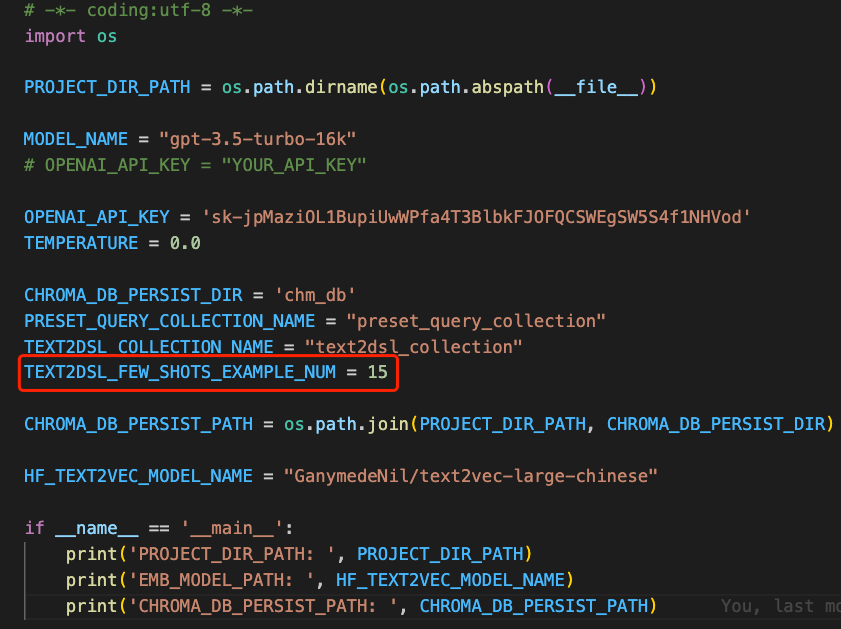
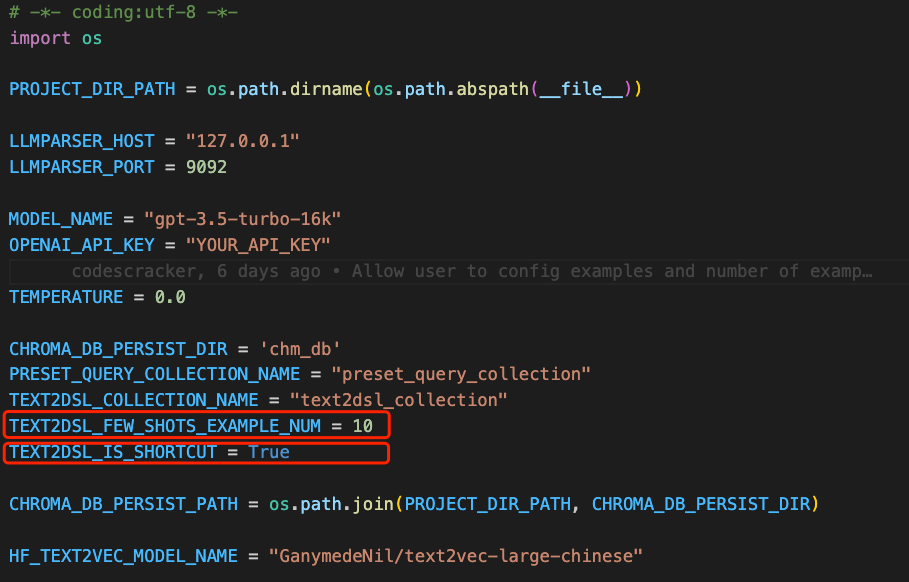
(improvement)(text2sql) add text2sql feature that only call LLM once, and add correponding configs and docs. (#102)

diff --git a/chat/core/src/main/python/sql/run.py b/chat/core/src/main/python/sql/run.py
@@ -7,32 +7,37 @@ import sys
 sys.path.append(os.path.dirname(os.path.dirname(os.path.abspath(__file__))))
 sys.path.append(os.path.dirname(os.path.abspath(__file__)))
 
-from sql.prompt_maker import schema_linking_exampler, sql_exampler
-from sql.constructor import schema_linking_example_selector, sql_example_selector,sql_examples_vectorstore, reload_sql_example_collection
-from sql.output_parser import schema_link_parse
+from sql.prompt_maker import schema_linking_exampler, sql_exampler, schema_linking_sql_combo_examplar
+from sql.constructor import sql_examples_vectorstore, sql_example_selector, reload_sql_example_collection
+from sql.output_parser import schema_link_parse, combo_schema_link_parse, combo_sql_parse
 
 from util.llm_instance import llm
-
+from run_config import TEXT2DSL_IS_SHORTCUT
 
 class Text2DSLAgent(object):
         def __init__(self):
             self.schema_linking_exampler = schema_linking_exampler
             self.sql_exampler = sql_exampler
 
+            self.schema_linking_sql_combo_exampler = schema_linking_sql_combo_examplar
+
             self.sql_examples_vectorstore = sql_examples_vectorstore
-            self.schema_linking_example_selector = schema_linking_example_selector
             self.sql_example_selector = sql_example_selector
 
             self.schema_link_parse = schema_link_parse
+            self.combo_schema_link_parse = combo_schema_link_parse
+            self.combo_sql_parse = combo_sql_parse
 
             self.llm = llm
 
-        def update_examples(self, sql_examplars, example_nums):
-            self.sql_examples_vectorstore, self.schema_linking_example_selector, self.sql_example_selector = reload_sql_example_collection(self.sql_examples_vectorstore, 
-                                                                                                                                           sql_examplars, 
-                                                                                                                                           self.schema_linking_example_selector, 
-                                                                                                                                           self.sql_example_selector, 
-                                                                                                                                           example_nums)
+            self.is_shortcut = TEXT2DSL_IS_SHORTCUT
+
+        def update_examples(self, sql_examples, example_nums, is_shortcut):
+            self.sql_examples_vectorstore,  self.sql_example_selector = reload_sql_example_collection(self.sql_examples_vectorstore, 
+                                                                                                    sql_examples, 
+                                                                                                    self.sql_example_selector, 
+                                                                                                    example_nums)
+            self.is_shortcut = is_shortcut
 
         def query2sql(self, query_text: str, 
             schema : Union[dict, None] = None,
@@ -53,14 +58,14 @@ class Text2DSLAgent(object):
             model_name = schema['modelName']
             fields_list = schema['fieldNameList']
 
-            schema_linking_prompt = self.schema_linking_exampler(query_text, model_name, fields_list, prior_schema_links, self.schema_linking_example_selector)
+            schema_linking_prompt = self.schema_linking_exampler(query_text, model_name, fields_list, prior_schema_links, self.sql_example_selector)
             print("schema_linking_prompt->", schema_linking_prompt)
             schema_link_output = self.llm(schema_linking_prompt)
             schema_link_str = self.schema_link_parse(schema_link_output)
             
             sql_prompt = self.sql_exampler(query_text, model_name, schema_link_str, current_date, self.sql_example_selector)
             print("sql_prompt->", sql_prompt)
-            sql_output = llm(sql_prompt)
+            sql_output = self.llm(sql_prompt)
 
             resp = dict()
             resp['query'] = query_text
@@ -69,7 +74,7 @@ class Text2DSLAgent(object):
             resp['priorSchemaLinking'] = linking
             resp['dataDate'] = current_date
 
-            resp['schemaLinkingOutput'] = schema_link_output
+            resp['analysisOutput'] = schema_link_output
             resp['schemaLinkStr'] = schema_link_str
             
             resp['sqlOutput'] = sql_output
@@ -77,6 +82,58 @@ class Text2DSLAgent(object):
             print("resp: ", resp)
 
             return resp
+
+        def query2sqlcombo(self, query_text: str, 
+            schema : Union[dict, None] = None,
+            current_date: str = None,
+            linking: Union[List[Mapping[str, str]], None] = None
+            ):
+
+            print("query_text: ", query_text)
+            print("schema: ", schema)
+            print("current_date: ", current_date)
+            print("prior_schema_links: ", linking)
+
+            if linking is not None:
+                  prior_schema_links = {item['fieldValue']:item['fieldName'] for item in linking}
+            else:
+                  prior_schema_links = {}
+
+            model_name = schema['modelName']
+            fields_list = schema['fieldNameList']
+
+            schema_linking_sql_combo_prompt = self.schema_linking_sql_combo_exampler(query_text, model_name, current_date, fields_list,
+                                                                                    prior_schema_links, self.sql_example_selector)
+            print("schema_linking_sql_combo_prompt->", schema_linking_sql_combo_prompt)
+            schema_linking_sql_combo_output = self.llm(schema_linking_sql_combo_prompt)
+
+            schema_linking_str = self.combo_schema_link_parse(schema_linking_sql_combo_output)
+            sql_str = self.combo_sql_parse(schema_linking_sql_combo_output)
+
+            resp = dict()
+            resp['query'] = query_text
+            resp['model'] = model_name
+            resp['fields'] = fields_list
+            resp['priorSchemaLinking'] = prior_schema_links
+            resp['dataDate'] = current_date
+
+            resp['analysisOutput'] = schema_linking_sql_combo_output
+            resp['schemaLinkStr'] = schema_linking_str
+            resp['sqlOutput'] = sql_str
+
+            print("resp: ", resp)
+
+            return resp
+
+        def query2sql_run(self, query_text: str, 
+            schema : Union[dict, None] = None,
+            current_date: str = None,
+            linking: Union[List[Mapping[str, str]], None] = None):
+
+            if self.is_shortcut:
+                  return self.query2sqlcombo(query_text, schema, current_date, linking)
+            else:
+                  return self.query2sql(query_text, schema, current_date, linking)
 
 text2sql_agent = Text2DSLAgent()
 

diff --git a/chat/core/src/main/python/sql/constructor.py b/chat/core/src/main/python/sql/constructor.py
@@ -22,10 +22,8 @@ from util.text2vec import Text2VecEmbeddingFunction, hg_embedding
 from util.chromadb_instance import client as chromadb_client, empty_chroma_collection_2
 from run_config import TEXT2DSL_COLLECTION_NAME, TEXT2DSL_FEW_SHOTS_EXAMPLE_NUM
 
-
 def reload_sql_example_collection(vectorstore:Chroma, 
                                 sql_examplars:List[Mapping[str, str]],
-                                schema_linking_example_selector:SemanticSimilarityExampleSelector,
                                 sql_example_selector:SemanticSimilarityExampleSelector, 
                                 example_nums:int
                                 ):
@@ -35,20 +33,16 @@ def reload_sql_example_collection(vectorstore:Chroma,
 
     print("emptied sql_examples_collection size:", vectorstore._collection.count())
 
-    schema_linking_example_selector = SemanticSimilarityExampleSelector(vectorstore=sql_examples_vectorstore, k=example_nums,
-                                                        input_keys=["question"], 
-                                                        example_keys=["table_name", "fields_list", "prior_schema_links", "question", "analysis", "schema_links"])
-
     sql_example_selector = SemanticSimilarityExampleSelector(vectorstore=sql_examples_vectorstore, k=example_nums,
-                                                        input_keys=["question"],
-                                                        example_keys=["question", "current_date", "table_name", "schema_links", "sql"])
+                                                        input_keys=["question"], 
+                                                        example_keys=["table_name", "fields_list", "prior_schema_links", "question", "analysis", "schema_links", "current_date", "sql"])
 
     for example in sql_examplars:
-        schema_linking_example_selector.add_example(example)
+        sql_example_selector.add_example(example)
 
     print("reloaded sql_examples_collection size:", vectorstore._collection.count())
 
-    return vectorstore, schema_linking_example_selector, sql_example_selector
+    return vectorstore, sql_example_selector
 
 
 sql_examples_vectorstore = Chroma(collection_name=TEXT2DSL_COLLECTION_NAME, 
@@ -57,22 +51,14 @@ sql_examples_vectorstore = Chroma(collection_name=TEXT2DSL_COLLECTION_NAME,
 
 example_nums = TEXT2DSL_FEW_SHOTS_EXAMPLE_NUM
 
-schema_linking_example_selector = SemanticSimilarityExampleSelector(vectorstore=sql_examples_vectorstore, k=example_nums,
-                                                        input_keys=["question"], 
-                                                        example_keys=["table_name", "fields_list", "prior_schema_links", "question", "analysis", "schema_links"])
-
 sql_example_selector = SemanticSimilarityExampleSelector(vectorstore=sql_examples_vectorstore, k=example_nums,
-                                                        input_keys=["question"],
-                                                        example_keys=["question", "current_date", "table_name", "schema_links", "sql"])
+                                                        input_keys=["question"], 
+                                                        example_keys=["table_name", "fields_list", "prior_schema_links", "question", "analysis", "schema_links", "current_date", "sql"])
 
 if sql_examples_vectorstore._collection.count() > 0:
     print("examples already in sql_vectorstore")
     print("init sql_vectorstore size:", sql_examples_vectorstore._collection.count()) 
-    if sql_examples_vectorstore._collection.count() < len(sql_examplars):
-        print("sql_examplars size:", len(sql_examplars))
-        sql_examples_vectorstore, schema_linking_example_selector, sql_example_selector = reload_sql_example_collection(sql_examples_vectorstore, sql_examplars, schema_linking_example_selector, sql_example_selector, example_nums)
-        print("added sql_vectorstore size:", sql_examples_vectorstore._collection.count())
-else:
-    sql_examples_vectorstore, schema_linking_example_selector, sql_example_selector = reload_sql_example_collection(sql_examples_vectorstore, sql_examplars, schema_linking_example_selector, sql_example_selector, example_nums)
-    print("added sql_vectorstore size:", sql_examples_vectorstore._collection.count())
 
+print("sql_examplars size:", len(sql_examplars))
+sql_examples_vectorstore, sql_example_selector = reload_sql_example_collection(sql_examples_vectorstore, sql_examplars, sql_example_selector, example_nums)
+print("added sql_vectorstore size:", sql_examples_vectorstore._collection.count())

diff --git a/chat/core/src/main/python/sql/prompt_maker.py b/chat/core/src/main/python/sql/prompt_maker.py
@@ -73,3 +73,38 @@ def sql_exampler(user_query: str,
                                                             schema_links=schema_link_str)
 
     return sql_example_prompt
+
+
+def schema_linking_sql_combo_examplar(user_query: str,
+                            domain_name: str,
+                            data_date : str,
+                            fields_list: List[str],
+                            prior_schema_links: Mapping[str,str],
+                            example_selector: SemanticSimilarityExampleSelector) -> str:
+    
+    prior_schema_links_str = '['+ ','.join(["""'{}'->{}""".format(k,v) for k,v in prior_schema_links.items()]) + ']'
+
+    example_prompt_template = PromptTemplate(input_variables=["table_name", "fields_list", "prior_schema_links", "current_date", "question", "analysis", "schema_links", "sql"],
+                                template="Table {table_name}, columns = {fields_list}, prior_schema_links = {prior_schema_links}\nCurrent_date:{current_date}\n问题:{question}\n分析:{analysis} 所以Schema_links是:\nSchema_links:{schema_links}\nSQL:{sql}")
+
+    instruction = "# 根据数据库的表结构,参考先验信息,找出为每个问题生成SQL查询语句的schema_links,再根据schema_links为每个问题生成SQL查询语句"
+
+    schema_linking_sql_combo_prompt = "Table {table_name}, columns = {fields_list}, prior_schema_links = {prior_schema_links}\nCurrent_date:{current_date}\n问题:{question}\n分析: 让我们一步一步地思考。"
+
+    schema_linking_sql_combo_example_prompt_template = FewShotPromptTemplate(
+        example_selector=example_selector,
+        example_prompt=example_prompt_template,
+        example_separator="\n\n", 
+        prefix=instruction,
+        input_variables=["table_name", "fields_list", "prior_schema_links", "current_date", "question"],
+        suffix=schema_linking_sql_combo_prompt
+        )
+
+    schema_linking_sql_combo_example_prompt = schema_linking_sql_combo_example_prompt_template.format(table_name=domain_name,
+                                                                                    fields_list=fields_list,
+                                                                                    prior_schema_links=prior_schema_links_str,
+                                                                                    current_date=data_date,
+                                                                                    question=user_query)
+    return schema_linking_sql_combo_example_prompt
+
+

diff --git a/chat/core/src/main/python/sql/examples_reload_run.py b/chat/core/src/main/python/sql/examples_reload_run.py
@@ -8,24 +8,22 @@ import json
 sys.path.append(os.path.dirname(os.path.dirname(os.path.abspath(__file__))))
 sys.path.append(os.path.dirname(os.path.abspath(__file__)))
 
-from run_config import TEXT2DSL_FEW_SHOTS_EXAMPLE_NUM
+from run_config import TEXT2DSL_FEW_SHOTS_EXAMPLE_NUM, TEXT2DSL_IS_SHORTCUT
 from few_shot_example.sql_exampler import examplars as sql_examplars
-from run_config import LLMPARSER_HOST
-from run_config import LLMPARSER_PORT
+from run_config import LLMPARSER_HOST, LLMPARSER_PORT
 
 
 def text2dsl_setting_update(llm_parser_host:str, llm_parser_port:str,
-        sql_examplars:List[Mapping[str, str]], example_nums:int):
+        sql_examplars:List[Mapping[str, str]], example_nums:int, is_shortcut:bool):
 
     url = f"http://{llm_parser_host}:{llm_parser_port}/query2sql_setting_update/"
     print("url: ", url)
-    payload = {"sqlExamplars":sql_examplars, "exampleNums":example_nums}
+    payload = {"sqlExamplars":sql_examplars, "exampleNums":example_nums, "isShortcut":is_shortcut}
     headers = {'content-type': 'application/json'}
     response = requests.post(url, data=json.dumps(payload), headers=headers)
     print(response.text)
 
 
 if __name__ == "__main__":
-    arguments = sys.argv
     text2dsl_setting_update(LLMPARSER_HOST, LLMPARSER_PORT,
-                            sql_examplars, TEXT2DSL_FEW_SHOTS_EXAMPLE_NUM)
+                            sql_examplars, TEXT2DSL_FEW_SHOTS_EXAMPLE_NUM, TEXT2DSL_IS_SHORTCUT)

diff --git a/chat/core/src/main/python/sql/output_parser.py b/chat/core/src/main/python/sql/output_parser.py
@@ -11,3 +11,35 @@ def schema_link_parse(schema_link_output):
         schema_link_output = None
 
     return schema_link_output
+
+def combo_schema_link_parse(schema_linking_sql_combo_output: str):
+    try:
+        schema_linking_sql_combo_output = schema_linking_sql_combo_output.strip()
+        pattern = r'Schema_links:(\[.*?\])'
+        schema_links_match = re.search(pattern, schema_linking_sql_combo_output)
+
+        if schema_links_match:
+            schema_links = schema_links_match.group(1)
+        else:
+            schema_links = None
+    except Exception as e:
+        print(e)
+        schema_links = None
+
+    return schema_links
+
+def combo_sql_parse(schema_linking_sql_combo_output: str):
+    try:
+        schema_linking_sql_combo_output = schema_linking_sql_combo_output.strip()
+        pattern = r'SQL:(.*)'
+        sql_match = re.search(pattern, schema_linking_sql_combo_output)
+
+        if sql_match:
+            sql = sql_match.group(1)
+        else:
+            sql = None
+    except Exception as e:
+        print(e)
+        sql = None
+
+    return sql

diff --git a/chat/core/src/main/python/supersonic_llmparser.py b/chat/core/src/main/python/supersonic_llmparser.py
@@ -51,7 +51,7 @@ async def din_query2sql(query_body: Mapping[str, Any]):
     else:
         linking = query_body['linking']
 
-    resp = text2sql_agent.query2sql(query_text=query_text,  
+    resp = text2sql_agent.query2sql_run(query_text=query_text,  
                      schema=schema, current_date=current_date, linking=linking)
 
     return resp
@@ -70,7 +70,12 @@ async def query2sql_setting_update(query_body: Mapping[str, Any]):
     else:
         example_nums = query_body['exampleNums']
 
-    text2sql_agent.update_examples(sql_examplars=sql_examplars, example_nums=example_nums)
+    if 'isShortcut' not in query_body:
+        raise HTTPException(status_code=400, detail="isShortcut is not in query_body")
+    else:
+        is_shortcut = query_body['isShortcut']
+
+    text2sql_agent.update_examples(sql_examples=sql_examplars, example_nums=example_nums, is_shortcut=is_shortcut)
 
     return "success"
 

diff --git a/chat/core/src/main/python/run_config.py b/chat/core/src/main/python/run_config.py
@@ -15,6 +15,7 @@ CHROMA_DB_PERSIST_DIR = 'chm_db'
 PRESET_QUERY_COLLECTION_NAME = "preset_query_collection"
 TEXT2DSL_COLLECTION_NAME = "text2dsl_collection"
 TEXT2DSL_FEW_SHOTS_EXAMPLE_NUM = 15
+TEXT2DSL_IS_SHORTCUT = False
 
 CHROMA_DB_PERSIST_PATH = os.path.join(PROJECT_DIR_PATH, CHROMA_DB_PERSIST_DIR)
 

diff --git a/docs/userguides/text2sql_cn.md b/docs/userguides/text2sql_cn.md
@@ -5,21 +5,25 @@ text2sql的功能实现，高度依赖对LLM的应用。通过LLM生成SQL的过
 
 ### **配置方式**
 1. 样本池的配置。
-   - supersonic/chat/core/src/main/python/llm/few_shot_example/sql_exampler.py为样本池配置文件。用户可以以已有的样本作为参考，配置更贴近自身业务需求的样本，用于更好的引导LLM生成SQL。
+   - supersonic/chat/core/src/main/python/few_shot_example/sql_exampler.py 为样本池配置文件。用户可以以已有的样本作为参考，配置更贴近自身业务需求的样本，用于更好的引导LLM生成SQL。
 2. 样本数量的配置。
-   - 在supersonic/chat/core/src/main/python/llm/run_config.py 中通过 TEXT2DSL_FEW_SHOTS_EXAMPLE_NUM 变量进行配置。
+   - 在 supersonic/chat/core/src/main/python/run_config.py 中通过 TEXT2DSL_FEW_SHOTS_EXAMPLE_NUM 变量进行配置。
    - 默认值为15，为项目在内部实践后较优的经验值。样本少太少，对导致LLM在生成SQL的过程中缺少引导和示范，生成的SQL会更不稳定；样本太多，会增加生成SQL需要的时间和LLM的token消耗（或超过LLM的token上限）。
-   - <div align="left" >
+3. SQL生成方式的配置
+   - 在 supersonic/chat/core/src/main/python/run_config.py 中通过 TEXT2DSL_IS_SHORTCUT 变量进行配置。
+   - 默认值为False；当为False时，会调用2次LLM生成SQL；当为True时，会只调用1次LLM生成SQL。相较于2次LLM调用生成的SQL，耗时会减少30-40%，token的消耗量会减少30%左右，但生成的SQL正确率会有所下降。
+<div align="left" >
     <img src=../images/text2sql_config.png width="70%"/>
-    <p>图1-1 样本数量的配置文件</p>
+    <p>图1-1 配置文件</p>
 </div>
 
-3. 运行中更新配置的脚本。
-   - 如果在启动项目后，用户需要对text2sql功能的相关配置进行调试，可以在修改相关配置文件后，通过脚本 supersonic/chat/core/src/main/python/bin/text2sql_resetting.sh 在项目运行中让配置生效。
-
+### **运行中更新配置的脚本**
+1. 如果在启动项目后，用户需要对text2sql功能的相关配置进行调试，可以在修改相关配置文件后，通过以下2种方式让配置在项目运行中让配置生效。
+   - 执行 supersonic-daemon.sh reload llmparser 
+   - 执行 python examples_reload_run.py
 ### **FAQ**
 1. 生成一个SQL需要消耗的的LLM token数量太多了，按照openAI对token的收费标准，生成一个SQL太贵了，可以少用一些token吗？
-   - 可以。 用户可以根据自身需求，如配置方式1.中所示，修改样本池中的样本，选用一些更加简短的样本。如配置方式2.中所示，减少使用的样本数量。
+   - 可以。 用户可以根据自身需求，如配置方式1.中所示，修改样本池中的样本，选用一些更加简短的样本。如配置方式2.中所示，减少使用的样本数量。配置方式3.中所示，只调用1次LLM生成SQL。
    - 需要注意，样本和样本数量的选择对生成SQL的质量有很大的影响。过于激进的降低输入的token数量可能会降低生成SQL的质量。需要用户根据自身业务特点实测后进行平衡。
 
 
